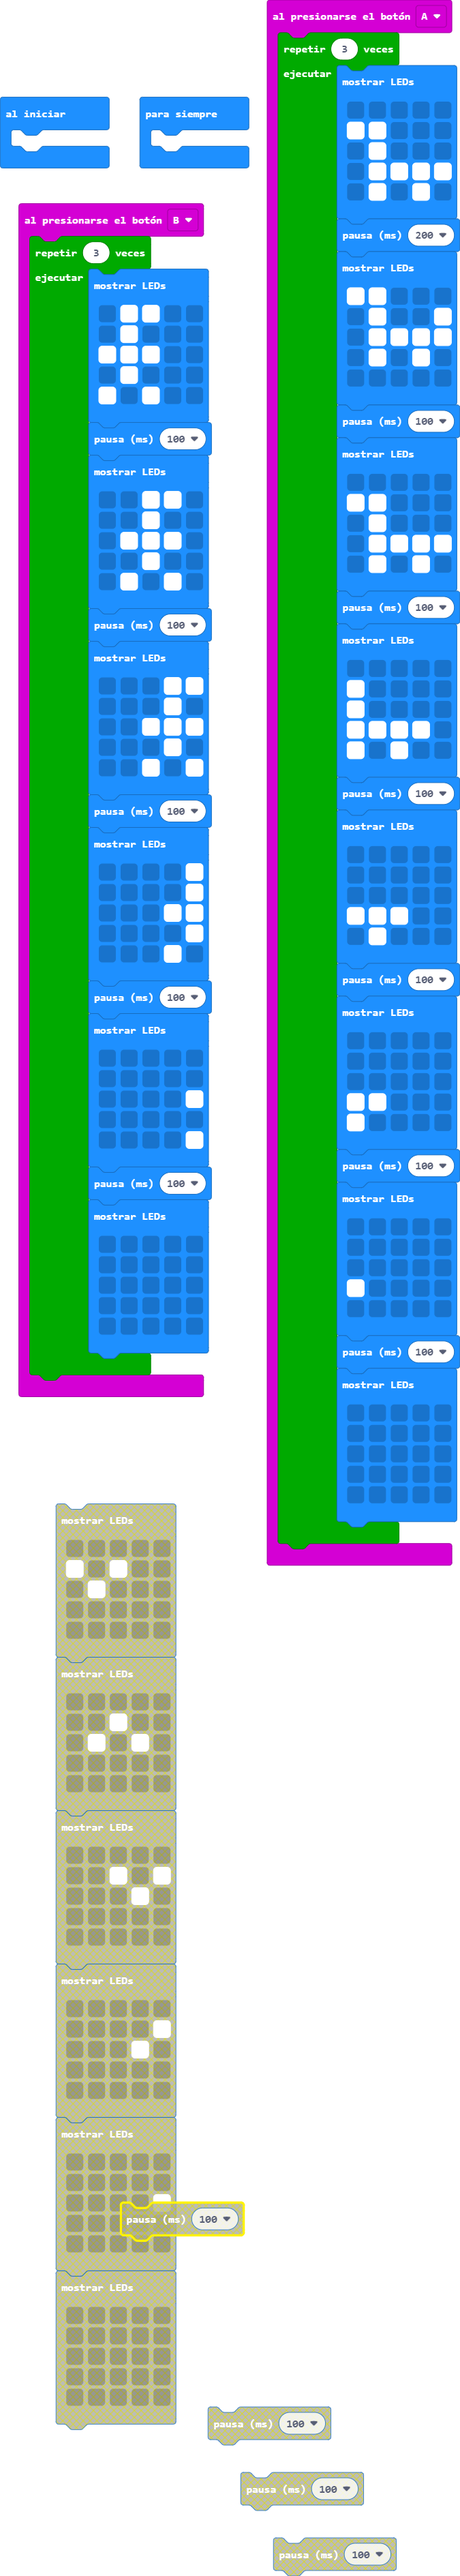
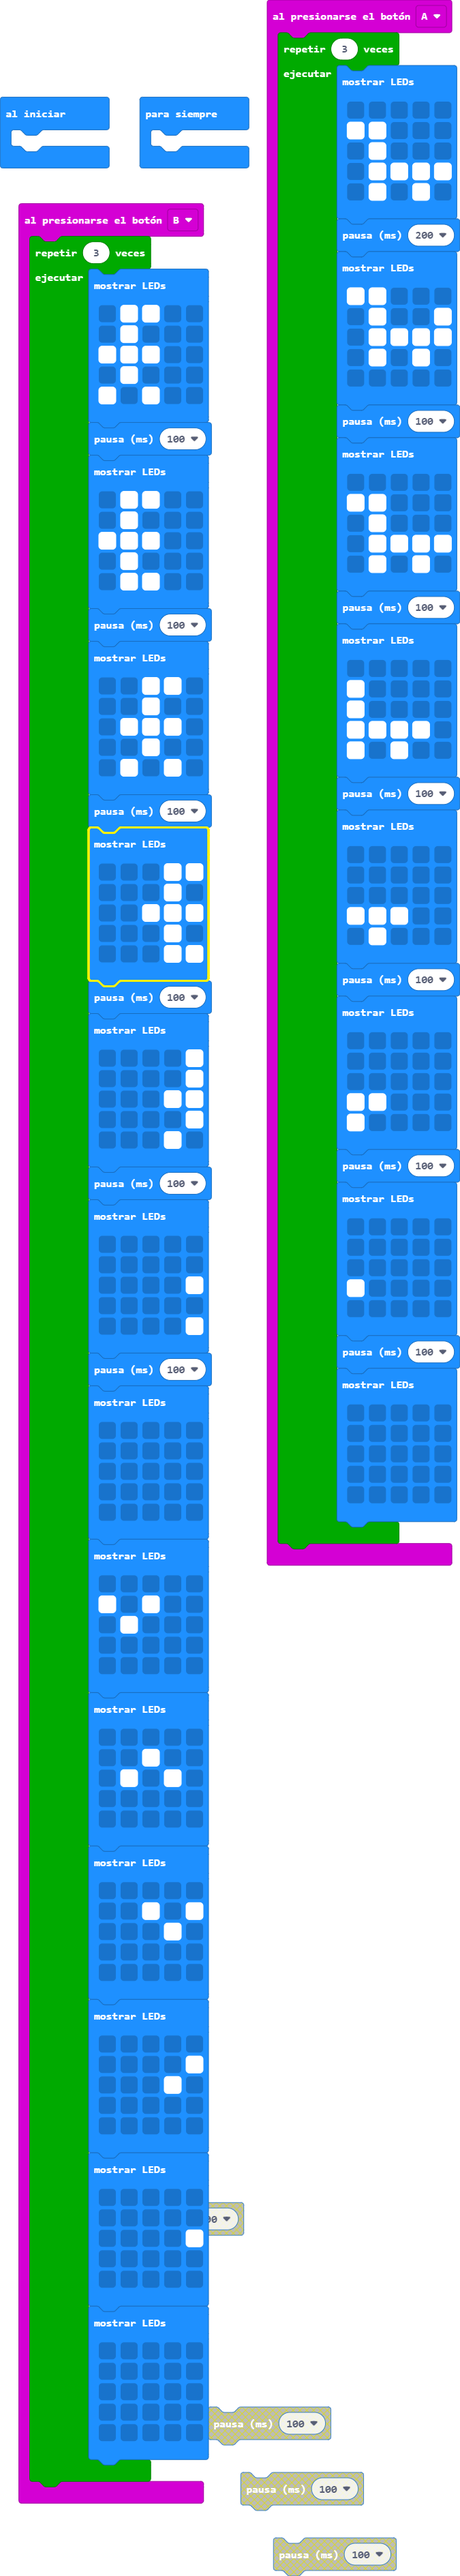
Actualizar main.blocks, main.ts

Changed region(s): [[0.0311, 0.406, 0.4667, 0.9995], [0.2178, 0.1874, 0.4667, 0.3748], [0.1867, 0.3123, 0.2178, 0.3748]]

diff --git a/main.ts b/main.ts
@@ -76,6 +76,14 @@ input.onButtonPressed(Button.B, function () {
             `)
         basic.pause(100)
         basic.showLeds(`
+            . # # . .
+            . # . . .
+            # # # . .
+            . # . . .
+            . # # . .
+            `)
+        basic.pause(100)
+        basic.showLeds(`
             . . # # .
             . . # . .
             . # # # .
@@ -88,7 +96,7 @@ input.onButtonPressed(Button.B, function () {
             . . . # .
             . . # # #
             . . . # .
-            . . # . #
+            . . . # #
             `)
         basic.pause(100)
         basic.showLeds(`
@@ -107,6 +115,48 @@ input.onButtonPressed(Button.B, function () {
             . . . . #
             `)
         basic.pause(100)
+        basic.showLeds(`
+            . . . . .
+            . . . . .
+            . . . . .
+            . . . . .
+            . . . . .
+            `)
+        basic.showLeds(`
+            . . . . .
+            # . # . .
+            . # . . .
+            . . . . .
+            . . . . .
+            `)
+        basic.showLeds(`
+            . . . . .
+            . . # . .
+            . # . # .
+            . . . . .
+            . . . . .
+            `)
+        basic.showLeds(`
+            . . . . .
+            . . # . #
+            . . . # .
+            . . . . .
+            . . . . .
+            `)
+        basic.showLeds(`
+            . . . . .
+            . . . . #
+            . . . # .
+            . . . . .
+            . . . . .
+            `)
+        basic.showLeds(`
+            . . . . .
+            . . . . .
+            . . . . #
+            . . . . .
+            . . . . .
+            `)
         basic.showLeds(`
             . . . . .
             . . . . .
